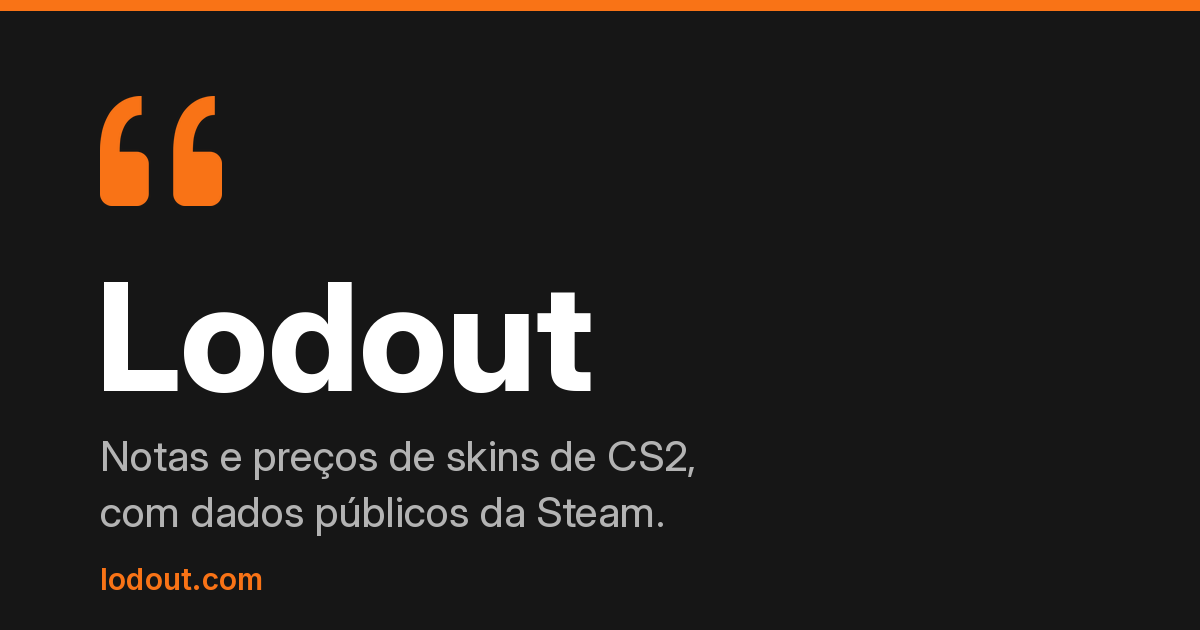
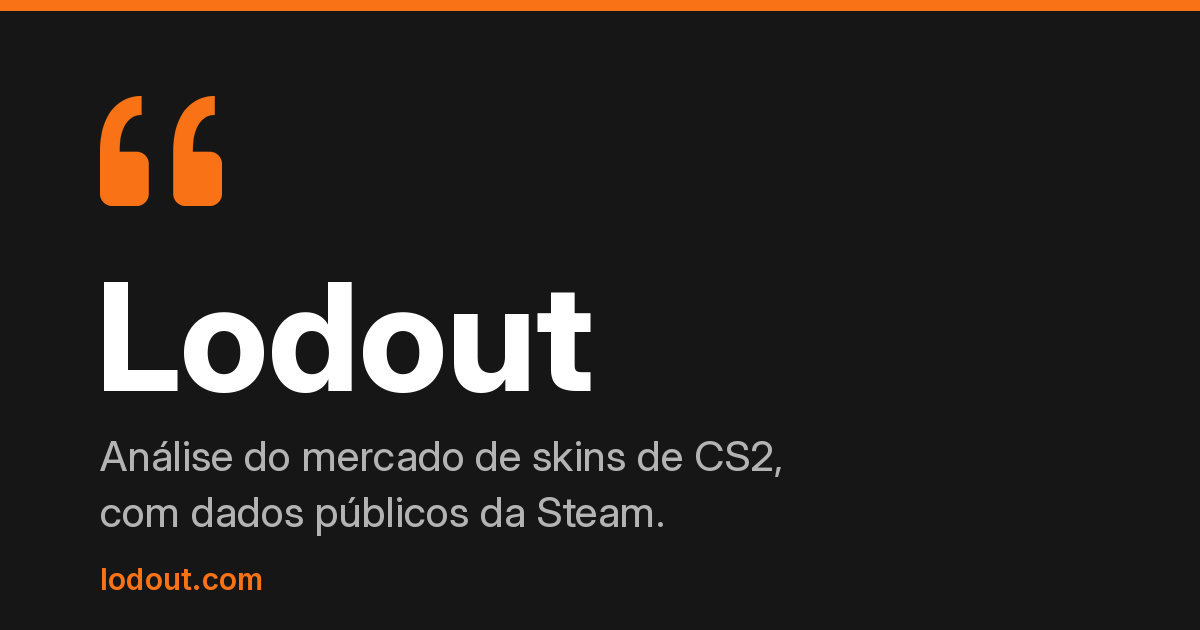
Novo título da home e escala "0 a 100" fora do texto do site
- Home: "Entenda o mercado de skins de CS2"; aba, Google, WhatsApp,
  rodapé, FAQ, Sobre, manifest e feed no mesmo posicionamento
- "de 0 a 100", "(0–100)" e "/100" saem de todas as páginas, da prévia
  de compartilhamento (cache v5) e do texto de compartilhar
- AGENTS.md e PRODUCT.md registram a decisão

Claude-Session: https://claude.ai/code/session_017sM22vPk2b77LTLZDB1cBK

Changed region(s): [[0.0617, 0.6937, 0.6475, 0.754]]

diff --git a/lodout/public_site/templates/index.html b/lodout/public_site/templates/index.html
@@ -4,17 +4,17 @@
 <head>
   <meta charset="utf-8">
   <meta name="viewport" content="width=device-width, initial-scale=1">
-  <title>Lodout — notas de 0 a 100 para skins de CS2</title>
-  <meta name="description" content="Nota de 0 a 100 para skins de CS2, com o motivo de cada nota e dados públicos do Mercado da Steam. Não é recomendação de investimento.">
-  <meta property="og:title" content="Lodout — notas e preços de skins de CS2">
-  <meta property="og:description" content="Nota de 0 a 100 para skins de CS2, com o motivo de cada nota e dados públicos do Mercado da Steam.">
+  <title>Lodout — análise do mercado de skins de CS2</title>
+  <meta name="description" content="Análise do mercado de skins de CS2: notas com o motivo, preços e encomendas, a partir de dados públicos da Steam. Não é recomendação de investimento.">
+  <meta property="og:title" content="Lodout — análise do mercado de skins de CS2">
+  <meta property="og:description" content="Notas com o motivo, preços e encomendas de skins de CS2, a partir de dados públicos da Steam.">
   <meta property="og:type" content="website">
   <meta property="og:image" content="{{ request.url_root.rstrip('/') }}{{ url_for('static', filename='og-image.png') }}">
   <meta property="og:locale" content="pt_BR">
   <meta property="og:url" content="{{ request.url_root }}">
   <meta name="twitter:card" content="summary_large_image">
-  <meta name="twitter:title" content="Lodout — notas e preços de skins de CS2">
-  <meta name="twitter:description" content="Nota de 0 a 100 para skins de CS2, com o motivo de cada nota e dados públicos do Mercado da Steam.">
+  <meta name="twitter:title" content="Lodout — análise do mercado de skins de CS2">
+  <meta name="twitter:description" content="Notas com o motivo, preços e encomendas de skins de CS2, a partir de dados públicos da Steam.">
   <meta name="twitter:image" content="{{ request.url_root.rstrip('/') }}{{ url_for('static', filename='og-image.png') }}">
   <link rel="canonical" href="{{ request.url_root }}">
   {% include "partials/_head_pwa.html" %}
@@ -27,7 +27,7 @@
     "@type": "WebSite",
     "name": "Lodout",
     "url": "{{ request.url_root }}",
-    "description": "Nota de 0 a 100 para skins de CS2, com o motivo de cada nota, a partir de dados públicos do Mercado da Steam."
+    "description": "Análise do mercado de skins de CS2, com notas e preços a partir de dados públicos do Mercado da Steam."
   }
   </script>
 </head>
@@ -86,7 +86,7 @@
     </td>
     <td class="celula-nota" data-label="Nota">
       <span class="nota nota-{{ c.score|nota_classe }}">{{ c.score|nota_anel|safe }}<span class="nota-numero">{{ c.score }}</span></span>
-      {% if c.nota_margem %}<span class="nota-margem" title="A soma dos fatores passou do limite da escala (0 a 100): sem o corte, a nota seria {{ c.score + c.nota_margem }}. A ordem entre notas iguais já considera isso.">{{ "%+d"|format(c.nota_margem) }}</span>{% endif %}
+      {% if c.nota_margem %}<span class="nota-margem" title="A soma dos fatores passou do limite da nota: sem o corte, a nota seria {{ c.score + c.nota_margem }}. A ordem entre notas iguais já considera isso.">{{ "%+d"|format(c.nota_margem) }}</span>{% endif %}
       {% if c.pump_risk|risco_nivel != "low" %}
       <span class="selo-risco risco-{{ c.pump_risk|risco_nivel }}" aria-label="Risco {{ c.pump_risk|risco_label|lower }}" title="Risco {{ c.pump_risk|risco_label|lower }}: possibilidade de uma alta rápida e artificial do preço.">Risco {{ c.pump_risk|risco_label|lower }}</span>
       {% endif %}
@@ -157,7 +157,7 @@
       </a>
       <div class="cartao-item-nota-area">
         <span class="cartao-item-nota nota-{{ c.score|nota_classe }}" role="img" title="Nota {{ c.score }} de 100" aria-label="Nota {{ c.score }} de 100">{{ c.score|nota_anel|safe }}<span class="cartao-item-nota-numero" aria-hidden="true">{{ c.score }}</span></span>
-        {% if c.nota_margem %}<span class="cartao-item-margem" title="A soma dos fatores passou do limite da escala (0 a 100): sem o corte, a nota seria {{ c.score + c.nota_margem }}.">{{ "%+d"|format(c.nota_margem) }}</span>{% endif %}
+        {% if c.nota_margem %}<span class="cartao-item-margem" title="A soma dos fatores passou do limite da nota: sem o corte, a nota seria {{ c.score + c.nota_margem }}.">{{ "%+d"|format(c.nota_margem) }}</span>{% endif %}
       </div>
       <label class="cartao-item-comparar-alvo" title="Comparar (até 3 itens)">
         <input type="checkbox" class="checkbox-comparar" data-comparar="{{ c.name }}" aria-label="Comparar {{ c.name_fmt }}">
@@ -285,7 +285,7 @@
     <th title="Nome do item, com link para o Mercado da Steam">Item</th>
     <th class="cabecalho-preco" title="Menor preço à venda agora no Mercado da Steam" aria-sort="{{ 'ascending' if ordenar_sel == 'preco' else 'none' }}"><a class="link-ordenar" href="{{ url_for('index', categoria=categoria_sel, nota_min=nota_min_sel, preco_max=preco_max_sel, liquidez_min=liquidez_min_sel, exterior=exterior_sel, raridade=raridade_filtro_sel, versao=versao_sel, q=busca_sel, ordenar='preco', ver='lista') }}">Preço{% if ordenar_sel == "preco" %} {{ icone("seta-cima") }}{% endif %}</a></th>
     <th class="celula-sparkline" title="Preço nas últimas 20 coletas">Histórico <span class="cabecalho-sub">(20)</span></th>
-    <th class="cabecalho-nota" title="De 0 a 100. Quanto maior, mais fatores positivos o item tem hoje. O selo de risco aparece quando a alta recente pode ser artificial." aria-sort="{{ 'descending' if ordenar_sel == 'nota' else 'none' }}"><a class="link-ordenar" href="{{ url_for('index', categoria=categoria_sel, nota_min=nota_min_sel, preco_max=preco_max_sel, liquidez_min=liquidez_min_sel, exterior=exterior_sel, raridade=raridade_filtro_sel, versao=versao_sel, q=busca_sel, ordenar='nota', ver='lista') }}">Nota (0–100){% if ordenar_sel == "nota" %} {{ icone("seta-baixo") }}{% endif %}</a></th>
+    <th class="cabecalho-nota" title="Quanto maior, mais fatores positivos o item tem hoje. O selo de risco aparece quando a alta recente pode ser artificial." aria-sort="{{ 'descending' if ordenar_sel == 'nota' else 'none' }}"><a class="link-ordenar" href="{{ url_for('index', categoria=categoria_sel, nota_min=nota_min_sel, preco_max=preco_max_sel, liquidez_min=liquidez_min_sel, exterior=exterior_sel, raridade=raridade_filtro_sel, versao=versao_sel, q=busca_sel, ordenar='nota', ver='lista') }}">Nota{% if ordenar_sel == "nota" %} {{ icone("seta-baixo") }}{% endif %}</a></th>
     <th title="De qual caixa ou cápsula o item vem, e se ela ainda sai no jogo">Caixa/Cápsula</th>
     <th title="Os fatores que mais pesaram na nota">Por quê</th>
   </tr>
@@ -306,8 +306,8 @@
        saber o que é o Lodout (revisão 17/11). Agora é a tese em uma
        linha, com o link para o Método. #}
     <header class="home-tese">
-      <h1 class="home-tese-titulo">Notas de 0 a 100 para skins de CS2</h1>
-      <p class="home-tese-texto">Uma nota para cada item, calculada com dados públicos da Steam. Você vê o motivo: se é fácil vender, quanto o preço oscila e se há risco de alta artificial. <a class="link-com-seta" href="{{ url_for('metodo') }}">Como funciona {{ icone("seta-direita") }}</a></p>
+      <h1 class="home-tese-titulo">Entenda o mercado de skins de CS2</h1>
+      <p class="home-tese-texto">Notas, preços e encomendas com dados públicos da Steam. Cada nota mostra o motivo: se é fácil vender, quanto o preço oscila e se há risco de alta artificial. <a class="link-com-seta" href="{{ url_for('metodo') }}">Como funciona {{ icone("seta-direita") }}</a></p>
     </header>
 
     {% if destaque_hero %}
@@ -507,7 +507,7 @@
         <div class="filtros-mais-corpo">
           <div class="filtros-numericos">
             <label><span class="filtro-campo-label">Nota mínima</span>
-              <input type="number" name="nota_min" min="0" max="100" step="1" value="{{ nota_min_sel if nota_min_sel is not none else '' }}" placeholder="0 a 100">
+              <input type="number" name="nota_min" min="0" max="100" step="1" value="{{ nota_min_sel if nota_min_sel is not none else '' }}" placeholder="Ex.: 70">
             </label>
             <label><span class="filtro-campo-label">Preço máximo (R$)</span>
               <input type="number" name="preco_max" min="0" step="0.01" value="{{ preco_max_sel if preco_max_sel is not none else '' }}" placeholder="Sem limite">
@@ -679,7 +679,7 @@
       {% if ver_sel == 'vitrine' %}
       <div class="ordenar-vitrine" role="group" aria-label="Ordenar itens">
         <span class="ordenar-vitrine-rotulo">Ordenar por:</span>
-        <a href="{{ url_for('index', categoria=categoria_sel, nota_min=nota_min_sel, preco_max=preco_max_sel, liquidez_min=liquidez_min_sel, exterior=exterior_sel, raridade=raridade_filtro_sel, versao=versao_sel, q=busca_sel, ordenar='nota', ver='vitrine') }}"{% if ordenar_sel == 'nota' %} aria-current="page"{% endif %}>Nota (0–100)</a>
+        <a href="{{ url_for('index', categoria=categoria_sel, nota_min=nota_min_sel, preco_max=preco_max_sel, liquidez_min=liquidez_min_sel, exterior=exterior_sel, raridade=raridade_filtro_sel, versao=versao_sel, q=busca_sel, ordenar='nota', ver='vitrine') }}"{% if ordenar_sel == 'nota' %} aria-current="page"{% endif %}>Nota</a>
         <a href="{{ url_for('index', categoria=categoria_sel, nota_min=nota_min_sel, preco_max=preco_max_sel, liquidez_min=liquidez_min_sel, exterior=exterior_sel, raridade=raridade_filtro_sel, versao=versao_sel, q=busca_sel, ordenar='preco', ver='vitrine') }}"{% if ordenar_sel == 'preco' %} aria-current="page"{% endif %}>Preço</a>
       </div>
       {% endif %}

diff --git a/lodout/public_site/templates/item.html b/lodout/public_site/templates/item.html
@@ -5,19 +5,19 @@
   <meta charset="utf-8">
   <meta name="viewport" content="width=device-width, initial-scale=1">
   <title>{{ item.name_fmt }} — Lodout</title>
-  <meta name="description" content="{{ item.name_fmt }}: nota {{ item.score }}/100 e preço de {{ item.price_fmt }} no Mercado da Steam.">
+  <meta name="description" content="{{ item.name_fmt }}: nota {{ item.score }} e preço de {{ item.price_fmt }} no Mercado da Steam.">
   <meta property="og:title" content="{{ item.name_fmt }} — Lodout">
-  <meta property="og:description" content="Nota {{ item.score }}/100 · {{ item.price_fmt }}{% if item.reasons %} · {{ item.reasons|join('; ') }}{% endif %}">
+  <meta property="og:description" content="Nota {{ item.score }} · {{ item.price_fmt }}{% if item.reasons %} · {{ item.reasons|join('; ') }}{% endif %}">
   <meta property="og:type" content="website">
   <meta property="og:image" content="{{ request.url_root.rstrip('/') ~ url_for('og_item', nome=item.name) }}">
   <meta property="og:image:width" content="1200">
   <meta property="og:image:height" content="630">
-  <meta property="og:image:alt" content="{{ item.name_fmt }}: nota {{ item.score }}/100, {{ item.price_fmt }}">
+  <meta property="og:image:alt" content="{{ item.name_fmt }}: nota {{ item.score }}, {{ item.price_fmt }}">
   <meta property="og:url" content="{{ request.url }}">
   <meta property="og:locale" content="pt_BR">
   <meta name="twitter:card" content="summary_large_image">
   <meta name="twitter:title" content="{{ item.name_fmt }} — Lodout">
-  <meta name="twitter:description" content="Nota {{ item.score }}/100 · {{ item.price_fmt }}">
+  <meta name="twitter:description" content="Nota {{ item.score }} · {{ item.price_fmt }}">
   <meta name="twitter:image" content="{{ request.url_root.rstrip('/') ~ url_for('og_item', nome=item.name) }}">
   <link rel="canonical" href="{{ request.url }}">
   <script type="application/ld+json">
@@ -99,7 +99,7 @@
     </div>
 
     <section class="resumo-cards resumo-cards-item" aria-label="Resumo do item">
-      <div class="card card-nota-destaque"><span class="card-label">Nota</span><span class="card-valor nota nota-grande nota-{{ item.score|nota_classe }}">{{ item.score|nota_anel|safe }}<span class="nota-numero">{{ item.score }}</span></span>{% if item.nota_margem %}<span class="nota-margem" title="A soma dos fatores passou do limite da escala (0 a 100): sem o corte, a nota seria {{ item.score + item.nota_margem }}.">{{ "%+d"|format(item.nota_margem) }}</span>{% endif %}{% if item.confianca_baixa %}<span class="selo-confianca-baixa" title="{{ item.confianca_baixa_titulo }}">{{ icone("dado-limitado") }}Dado limitado</span>{% endif %}</div>
+      <div class="card card-nota-destaque"><span class="card-label">Nota</span><span class="card-valor nota nota-grande nota-{{ item.score|nota_classe }}">{{ item.score|nota_anel|safe }}<span class="nota-numero">{{ item.score }}</span></span>{% if item.nota_margem %}<span class="nota-margem" title="A soma dos fatores passou do limite da nota: sem o corte, a nota seria {{ item.score + item.nota_margem }}.">{{ "%+d"|format(item.nota_margem) }}</span>{% endif %}{% if item.confianca_baixa %}<span class="selo-confianca-baixa" title="{{ item.confianca_baixa_titulo }}">{{ icone("dado-limitado") }}Dado limitado</span>{% endif %}</div>
       <div class="card"><span class="card-label">Preço</span><span class="card-valor">{{ item.price_fmt }}</span></div>
       <div class="card card-caixa"><span class="card-label">Caixa/Cápsula</span><span class="card-valor card-valor-texto">{{ item.case_label|rotulo_caixa(item.name) or "—" }}{% if itens_da_caixa %}<span class="card-sub" title="Skins desta caixa que o Lodout já acompanha (não é o total do jogo)">{{ itens_da_caixa }} {{ "item" if itens_da_caixa == 1 else "itens" }} desta caixa no Lodout</span>{% endif %}</span></div>
       <div class="card card-risco"><span class="card-label">Risco</span><span class="card-valor risco risco-{{ item.pump_risk|risco_nivel }}"><span class="gauge-barras gauge-risco gauge-risco-{{ item.pump_risk|risco_nivel }}" aria-hidden="true"><span class="gauge-seg"></span><span class="gauge-seg"></span><span class="gauge-seg"></span></span>{{ item.pump_risk|risco_label }}</span></div>

diff --git a/lodout/public_site/templates/comparar.html b/lodout/public_site/templates/comparar.html
@@ -57,7 +57,7 @@
       </thead>
       <tbody>
         <tr><td>Preço</td>{% for it in itens %}<td{% if it.preco_destaque %} class="valor-destaque-linha"{% endif %}>{{ it.price_fmt }}{% if it.preco_destaque %}<span class="rotulo-destaque-linha">menor preço nesta linha</span>{% endif %}</td>{% endfor %}</tr>
-        <tr><td>Nota</td>{% for it in itens %}<td{% if it.nota_destaque %} class="valor-destaque-linha"{% endif %}><span class="nota nota-{{ it.score|nota_classe }}">{{ it.score|nota_anel|safe }}<span class="nota-numero">{{ it.score }}</span></span>{% if it.nota_margem %}<span class="nota-margem" title="A soma dos fatores passou do limite da escala (0 a 100): sem o corte, a nota seria {{ it.score + it.nota_margem }}.">{{ "%+d"|format(it.nota_margem) }}</span>{% endif %}{% if it.confianca_baixa %}<span class="selo-confianca-baixa" title="{{ it.confianca_baixa_titulo }}">{{ icone("dado-limitado") }}Dado limitado</span>{% endif %}{% if it.nota_destaque %}<span class="rotulo-destaque-linha">maior nota nesta linha</span>{% endif %}</td>{% endfor %}</tr>
+        <tr><td>Nota</td>{% for it in itens %}<td{% if it.nota_destaque %} class="valor-destaque-linha"{% endif %}><span class="nota nota-{{ it.score|nota_classe }}">{{ it.score|nota_anel|safe }}<span class="nota-numero">{{ it.score }}</span></span>{% if it.nota_margem %}<span class="nota-margem" title="A soma dos fatores passou do limite da nota: sem o corte, a nota seria {{ it.score + it.nota_margem }}.">{{ "%+d"|format(it.nota_margem) }}</span>{% endif %}{% if it.confianca_baixa %}<span class="selo-confianca-baixa" title="{{ it.confianca_baixa_titulo }}">{{ icone("dado-limitado") }}Dado limitado</span>{% endif %}{% if it.nota_destaque %}<span class="rotulo-destaque-linha">maior nota nesta linha</span>{% endif %}</td>{% endfor %}</tr>
         <tr><td>Caixa/Cápsula</td>{% for it in itens %}<td>{{ it.case_label|rotulo_caixa(it.name) or "—" }}</td>{% endfor %}</tr>
         <tr><td>Risco</td>{% for it in itens %}<td class="risco risco-{{ it.pump_risk|risco_nivel }}">{{ it.pump_risk|risco_label }}</td>{% endfor %}</tr>
         <tr><td>Liquidez</td>{% for it in itens %}<td>{% if it.liquidity_depth and it.liquidity_depth.band %}<span class="liquidez liquidez-{{ it.liquidity_depth.band|replace('_', '-') }}" title="{{ it.liquidity_depth.label }}">{{ it.liquidity_depth.band|liquidez_label }}</span>{% else %}<span class="status-muted">—</span>{% endif %}</td>{% endfor %}</tr>

diff --git a/lodout/public_site/templates/metodo.html b/lodout/public_site/templates/metodo.html
@@ -4,7 +4,7 @@
   <meta charset="utf-8">
   <meta name="viewport" content="width=device-width, initial-scale=1">
   <title>Como funciona a nota — Lodout</title>
-  <meta name="description" content="O que a nota de 0 a 100 mede, de onde vêm os dados e o que ela não é.">
+  <meta name="description" content="O que a nota do Lodout mede, de onde vêm os dados e o que ela não é.">
   <meta property="og:locale" content="pt_BR">
   <link rel="canonical" href="{{ request.url }}">
   {% include "partials/_head_pwa.html" %}
@@ -28,7 +28,7 @@
       {
         "@type": "Question",
         "name": "O que a nota do Lodout mede?",
-        "acceptedAnswer": {"@type": "Answer", "text": "Um número de 0 a 100 que resume dados de mercado de um item: facilidade de comprar e vender, preço em relação ao habitual, tendência, se a caixa ainda sai no jogo e alta rápida demais (tratada como risco)."}
+        "acceptedAnswer": {"@type": "Answer", "text": "Um número que resume dados de mercado de um item (quanto maior, mais fatores positivos): facilidade de comprar e vender, preço em relação ao habitual, tendência, se a caixa ainda sai no jogo e alta rápida demais (tratada como risco)."}
       },
       {
         "@type": "Question",
@@ -60,7 +60,7 @@
     </header>
     <section class="metodo-secao metodo-sinais">
       <h2 class="secao-titulo">O que a nota é</h2>
-      <p class="metodo-intro">Um número de 0 a 100 que resume dados de mercado de um item.
+      <p class="metodo-intro">Um número que resume os dados de mercado de um item: quanto maior, mais fatores positivos.
       É recalculado a cada coleta de preço, só com os dados até aquele momento.
       Os fatores que mais pesam:</p>
       <ul class="metodo-sinais-lista">
@@ -121,7 +121,7 @@
       cobre outros riscos, como mudanças da Valve no jogo.</li>
       <li>Os fatores são recalibrados conforme os dados crescem, e os pesos
       podem mudar.</li>
-      <li>A soma dos fatores pode passar de 0 ou de 100. A nota para no limite,
+      <li>A soma dos fatores pode passar dos limites da escala. A nota para no limite,
       e um número ao lado (por exemplo, “+23”) mostra quanto passou. A ordem
       entre notas iguais já considera isso.</li>
       <li>Tendência, distância do maior preço e alerta de alta artificial só

diff --git a/lodout/public_site/templates/glossario.html b/lodout/public_site/templates/glossario.html
@@ -21,7 +21,7 @@
       {"@type": "DefinedTerm", "name": "StatTrak™", "description": "Versão da skin que conta os abates feitos com ela. Costuma custar mais que a versão normal."},
       {"@type": "DefinedTerm", "name": "Souvenir", "description": "Versão da arma que só sai de pacotes de torneio, sem StatTrak. Em geral é mais rara e mais cara que a normal."},
       {"@type": "DefinedTerm", "name": "Float", "description": "Número de 0 a 1 que define o desgaste exato de um item dentro da sua faixa de desgaste. O Lodout não mostra o float de cada item, só o preço por faixa."},
-      {"@type": "DefinedTerm", "name": "Nota", "description": "Número de 0 a 100 que resume os dados de mercado de um item. Não é previsão."},
+      {"@type": "DefinedTerm", "name": "Nota", "description": "Número que resume os dados de mercado de um item; quanto maior, mais fatores positivos. Não é previsão."},
       {"@type": "DefinedTerm", "name": "Sem nota ainda", "description": "Item que aparece na busca só com o preço do dia e a quantidade à venda. A nota exige o histórico de preço, uma consulta mais pesada à Steam; por enquanto, existe para os itens mais negociados, e outros entram aos poucos."},
       {"@type": "DefinedTerm", "name": "Preço típico", "description": "A mediana dos preços recentes do item. Serve de referência para saber se o preço atual está acima ou abaixo do normal."},
       {"@type": "DefinedTerm", "name": "Caixa descontinuada", "description": "Caixa que parou de ser sorteada no jogo (saiu do drop pool). No histórico medido, caixas assim valorizaram mais que as ainda ativas, o que não garante o que vai acontecer."},
@@ -104,7 +104,7 @@
 
       <div class="termo-glossario">
       <dt id="termo-nota"><strong>Nota</strong></dt>
-      <dd>Número de 0 a 100 que resume os dados de mercado de um item. Não é previsão. Veja <a href="{{ url_for('metodo') }}">como a nota funciona</a>.</dd>
+      <dd>Número que resume os dados de mercado de um item; quanto maior, mais fatores positivos. Não é previsão. Veja <a href="{{ url_for('metodo') }}">como a nota funciona</a>.</dd>
       </div>
 
       <div class="termo-glossario">

diff --git a/lodout/public_site/templates/faq.html b/lodout/public_site/templates/faq.html
@@ -15,7 +15,7 @@
     "@context": "https://schema.org",
     "@type": "FAQPage",
     "mainEntity": [
-      {"@type": "Question", "name": "O que é o Lodout?", "acceptedAnswer": {"@type": "Answer", "text": "Um site que dá nota de 0 a 100 para skins de CS2, com dados públicos do Mercado da Steam e o motivo de cada nota."}},
+      {"@type": "Question", "name": "O que é o Lodout?", "acceptedAnswer": {"@type": "Answer", "text": "Um site que analisa o mercado de skins de CS2 com dados públicos da Steam: cada item tem uma nota, com o motivo, além de preços e encomendas."}},
       {"@type": "Question", "name": "É seguro usar?", "acceptedAnswer": {"@type": "Answer", "text": "Sim. Para ver as notas, não é preciso conta. O login opcional usa o Steam OpenID: você entra pelo site da Steam e nunca digita sua senha aqui."}},
       {"@type": "Question", "name": "Preciso de conta para usar?", "acceptedAnswer": {"@type": "Answer", "text": "Não. As notas são públicas. O login serve só para Minha conta (seus itens e quanto pagou), trades e watchlist."}},
       {"@type": "Question", "name": "O Lodout vê o meu inventário da Steam?", "acceptedAnswer": {"@type": "Answer", "text": "Só o inventário público, que qualquer pessoa vê no seu perfil. Ele é lido quando você entra, quando clica em Atualizar agora e uma vez por dia. O Lodout nunca pede senha nem chave da Steam, não vê seu histórico de compras (por isso você digita o valor pago) e não faz nada na sua conta."}},
@@ -49,7 +49,7 @@
       <article class="faq-item">
         <h2 class="secao-titulo">O que é o Lodout?</h2>
         <div class="faq-resposta">
-          <p>Um site que dá nota de 0 a 100 para skins de CS2, com dados públicos do Mercado da Steam e o motivo de cada nota.</p>
+          <p>Um site que analisa o mercado de skins de CS2 com dados públicos da Steam: cada item tem uma nota, com o motivo, além de preços e encomendas.</p>
         </div>
       </article>
 

diff --git a/lodout/public_site/templates/sobre.html b/lodout/public_site/templates/sobre.html
@@ -36,8 +36,8 @@
       <p class="descricao-pagina">O que é, para quem é e quem mantém.</p>
     </header>
     <h2 class="secao-titulo">O que é</h2>
-    <p>Um site que dá nota de 0 a 100 a skins de CS2, com dados públicos
-    da Steam e o motivo de cada nota. A busca mostra o preço de todo o
+    <p>Um site que analisa o mercado de skins de CS2 com dados públicos
+    da Steam: cada item tem uma nota, com o motivo. A busca mostra o preço de todo o
     Mercado. Com login pela Steam, você acompanha seus itens, com o lucro
     já sem a taxa e o preço para revender sem prejuízo.</p>
     <p>Começou como uma ferramenta pessoal e virou um site aberto a todos.</p>

diff --git a/lodout/public_site/templates/api_docs.html b/lodout/public_site/templates/api_docs.html
@@ -57,7 +57,7 @@
 
     <h2 class="secao-titulo">Campos</h2>
     <ul>
-      <li><strong>score</strong> — nota de 0 a 100 (ver <a href="{{ url_for('metodo') }}">como a nota é calculada</a>)</li>
+      <li><strong>score</strong> — a nota do item, quanto maior melhor (ver <a href="{{ url_for('metodo') }}">como a nota é calculada</a>)</li>
       <li><strong>reasons</strong> — até 3 motivos factuais que mais somaram pontos</li>
       <li><strong>pump_risk.level</strong> — "low", "medium" ou "high"</li>
       <li><strong>icon_url</strong> — endereço no próprio site para o ícone; o valor é <code>null</code> quando o item não tem hash de ícone</li>

diff --git a/lodout/public_site/templates/partials/_rodape_links.html b/lodout/public_site/templates/partials/_rodape_links.html
@@ -1,6 +1,6 @@
 <div class="rodape-marca">
   <a class="rodape-marca-nome" href="{{ url_for('index') }}">{% with logo_classe = "rodape-marca-icone" %}{% include "partials/_logo_aspas.html" %}{% endwith %}Lodout</a>
-  <p>Notas de 0 a 100 e preços de skins de CS2, com dados públicos do
+  <p>Análise do mercado de skins de CS2, com dados públicos do
   Mercado da Steam. Não é afiliado à Valve nem recomendação de investimento.</p>
   {% if coleta_quando %}
   {# Frescor dos dados em toda página (era só na home). Cor + texto: o

diff --git a/lodout/public_site/static/app.js b/lodout/public_site/static/app.js
@@ -720,7 +720,7 @@ if ("serviceWorker" in navigator) {
       var url = btnCompartilhar.getAttribute("data-url") || window.location.href;
 
       var texto = "🔥 " + nome + " no Lodout\n" +
-                  "📊 Nota: " + nota + "/100 · Preço: " + preco + "\n" +
+                  "📊 Nota: " + nota + " · Preço: " + preco + "\n" +
                   "Análise completa e simulador de lucro no link:\n" + url;
 
       function ativarSucesso() {

diff --git a/tests/test_public_site.py b/tests/test_public_site.py
@@ -654,7 +654,8 @@ def test_index_explicita_escala_da_nota_e_rotulo_textual_de_risco(
     ])
     body = client.get("/").data.decode("utf-8")
 
-    assert "Nota (0\u2013100)" in body
+    # A escala não aparece no texto desde 20/11 (pedido do usuário).
+    assert "0 a 100" not in body and "0\u2013100" not in body and "/100" not in body
     assert "Não é previsão nem promessa de lucro" in body
     # Risco baixo é o caso comum: sem coluna nem selo (era uma coluna
     # inteira repetindo "Baixo" em toda linha) -- e sem a frase que
@@ -1549,7 +1550,7 @@ def test_index_logo_no_topo(client, monkeypatch, tmp_path):
 def test_titulos_das_paginas_usam_o_nome_lodout(client):
     """Decisão de 2026-11-11: nos títulos de página o nome é "Lodout"
     (G maiúsculo). O resto do texto do site continua "lodout"."""
-    assert "<title>Lodout — notas de 0 a 100 para skins de CS2</title>" in client.get("/").data.decode("utf-8")
+    assert "<title>Lodout — análise do mercado de skins de CS2</title>" in client.get("/").data.decode("utf-8")
     ranking = client.get("/ranking").data.decode("utf-8")
     assert "<title>Ranking — Lodout</title>" in ranking
     assert "— lodout</title>" not in ranking
@@ -4894,7 +4895,7 @@ def test_index_traduz_caixa_igual_coluna_item(client, monkeypatch, tmp_path):
     body = client.get("/").data.decode("utf-8")
 
     assert ">Caixa CS:GO Weapon (descontinuada, 2013)</span>" in body
-    assert "<title>Lodout — notas de 0 a 100 para skins de CS2</title>" in body
+    assert "<title>Lodout — análise do mercado de skins de CS2</title>" in body
 
 
 def test_feed_e_api_nao_leem_historico_de_todos_os_itens(
@@ -6061,8 +6062,8 @@ def test_desde_txt_diz_ontem_ou_a_data():
 def test_home_mostra_a_tese_do_site(client):
     """Revisão 17/11: o <h1> era oculto e o celular não dizia o que é o site."""
     body = client.get("/").data.decode("utf-8")
-    assert '<h1 class="home-tese-titulo">Notas de 0 a 100 para skins de CS2</h1>' in body
-    assert "Você vê o motivo" in body and 'href="/metodo"' in body
+    assert '<h1 class="home-tese-titulo">Entenda o mercado de skins de CS2</h1>' in body
+    assert "Cada nota mostra o motivo" in body and 'href="/metodo"' in body
 
 
 def test_pessoas_no_site_agora(client):

diff --git a/lodout/public_site/og_cards.py b/lodout/public_site/og_cards.py
@@ -113,7 +113,7 @@ def cartao_padrao() -> bytes:
     d.rectangle([0, 0, LARGURA, 10], fill=_LARANJA)
     _aspas(img, 100, 96, 110)
     d.text((96, 245), "Lodout", font=_fonte(150, 750), fill=_TEXTO)
-    frase = "Notas e preços de skins de CS2,\ncom dados públicos da Steam."
+    frase = "Análise do mercado de skins de CS2,\ncom dados públicos da Steam."
     y = 430
     for linha in frase.split("\n"):
         d.text((100, y), linha, font=_fonte(42, 450), fill=_TEXTO_FRACO)
@@ -175,14 +175,12 @@ def cartao_item(nome_fmt: str, nota: "int | None", preco_fmt: str,
         d.text((x, y), "Nota", font=_fonte(30, 500), fill=_TEXTO_FRACO)
         d.text((x, y + 34), f"{int(nota)}", font=_fonte(120, 800),
                fill=_CORES_NOTA[_nota_classe(nota)])
-        d.text((x + _fonte(120, 800).getlength(f"{int(nota)}") + 14, y + 104),
-               "/100", font=_fonte(34, 500), fill=_TEXTO_FRACO)
     if preco_fmt:
-        # Depois do "87 /100" de verdade: nota 100 tem 3 dígitos.
+        # Depois da nota de verdade: nota 100 tem 3 dígitos. Sem "/100"
+        # desde 20/11 (pedido do usuário: a escala fica implícita).
         fim_nota = x
         if nota is not None:
-            fim_nota = (x + _fonte(120, 800).getlength(f"{int(nota)}") + 14
-                        + _fonte(34, 500).getlength("/100"))
+            fim_nota = x + _fonte(120, 800).getlength(f"{int(nota)}")
         px = max(x + 300, int(fim_nota) + 50)
         tam = 56
         while tam > 34 and _fonte(tam, 700).getlength(preco_fmt) > LARGURA - 60 - px:
@@ -211,7 +209,7 @@ def cartao_item_em_cache(nome_fmt: str, nota, preco_fmt: str,
     chave = hashlib.sha1("|".join([
         nome_fmt, str(nota), preco_fmt, raridade or "",
         hashlib.sha1(icone).hexdigest() if icone else "-",
-        "v4"]).encode("utf-8")).hexdigest()  # v4: aspas do logo (20/11)
+        "v5"]).encode("utf-8")).hexdigest()  # v5: sem "/100" (20/11)
     pasta = _dir_cache()
     caminho = pasta / f"{chave}.png"
     try:
